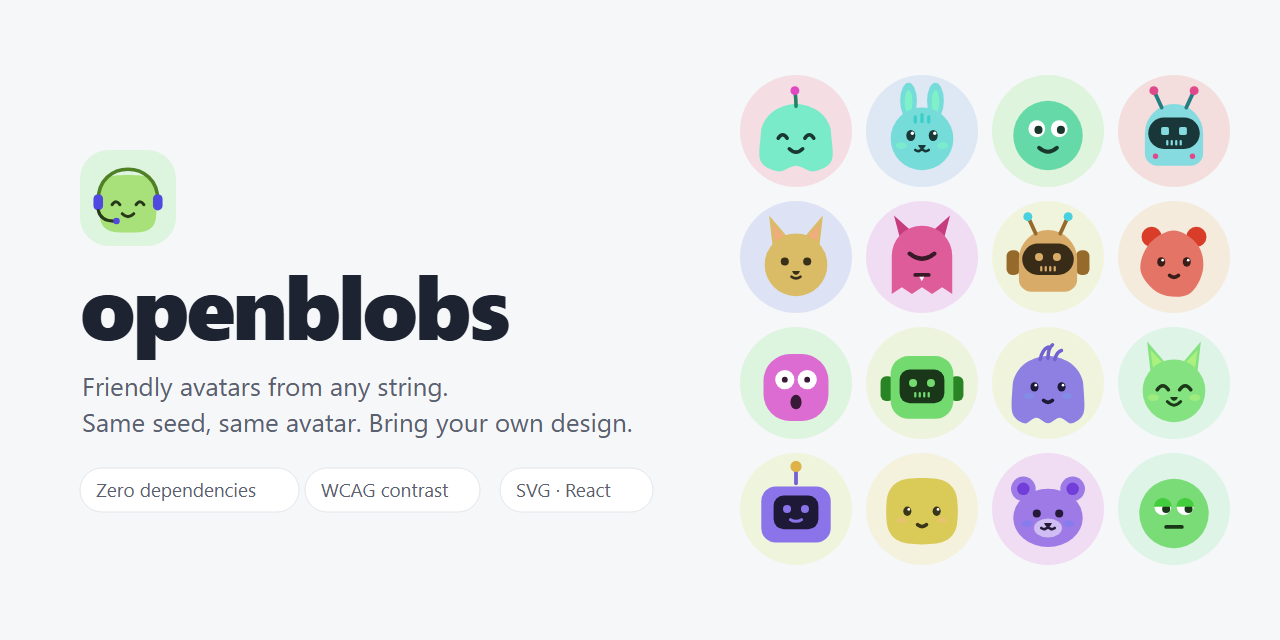
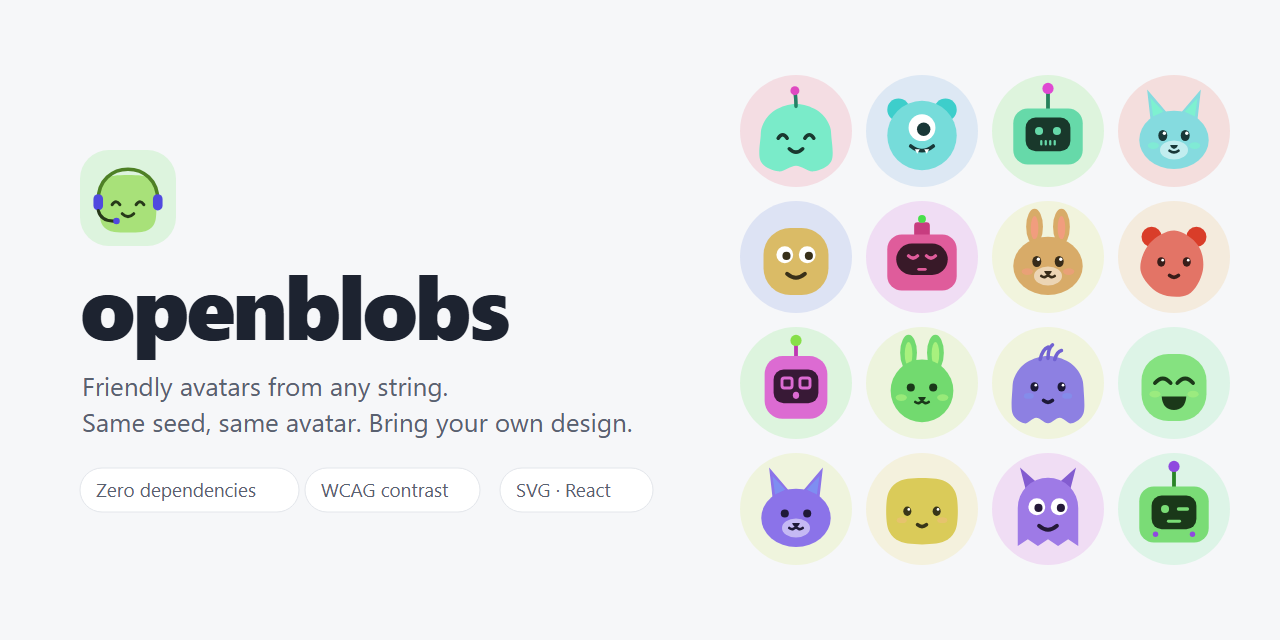
fix(robots): no antenna floats above the head
Antennas now sit behind the head and reach down to y 36, inside all
three head shapes, so the wide head no longer leaves a gap under them.

diff --git a/src/designs/robots.ts b/src/designs/robots.ts
@@ -13,24 +13,24 @@ export const robots = layeredDesign({
   name: "robots",
   description: "Robots with a screen for a face, antennas and bolts, in five moods.",
   layers: [
-    // Ears, drawn first so the head hides their base
+    // Ears, drawn before the head so it hides their base
     [
       "",
       "",
       `<rect x="13" y="44" width="12" height="22" rx="5" fill="{gear}"/><rect x="75" y="44" width="12" height="22" rx="5" fill="{gear}"/>`,
+    ],
+    // Antennas, behind the head: their base reaches y 36, inside every head, so none of them floats
+    [
+      "",
+      `<path d="M50 36V15" stroke="{gear}" stroke-width="3.4" stroke-linecap="round"/><circle cx="50" cy="12" r="5" fill="{accent}"/>`,
+      `<path d="M42.2 36 33 16M57.8 36 67 16" stroke="{gear}" stroke-width="3.4" stroke-linecap="round"/><circle cx="32" cy="14" r="4" fill="{accent}"/><circle cx="68" cy="14" r="4" fill="{accent}"/>`,
+      `<rect x="43" y="19" width="14" height="17" rx="3" fill="{gear}"/><circle cx="50" cy="16" r="3.5" fill="{accent}"/>`,
     ],
     // Heads
     [
       `<rect x="22" y="26" width="56" height="56" rx="16" fill="{body}"/>`,
       `<rect x="19" y="30" width="62" height="50" rx="13" fill="{body}"/>`,
       `<path d="M24 52a26 26 0 0 1 52 0v18a11 11 0 0 1-11 11H35a11 11 0 0 1-11-11z" fill="{body}"/>`,
-    ],
-    // Antennas
-    [
-      "",
-      `<path d="M50 27V15" stroke="{gear}" stroke-width="3.4" stroke-linecap="round"/><circle cx="50" cy="12" r="5" fill="{accent}"/>`,
-      `<path d="M39 29 33 16M61 29l6-13" stroke="{gear}" stroke-width="3.4" stroke-linecap="round"/><circle cx="32" cy="14" r="4" fill="{accent}"/><circle cx="68" cy="14" r="4" fill="{accent}"/>`,
-      `<rect x="43" y="19" width="14" height="9" rx="3" fill="{gear}"/><circle cx="50" cy="16" r="3.5" fill="{accent}"/>`,
     ],
     // Screens
     [
